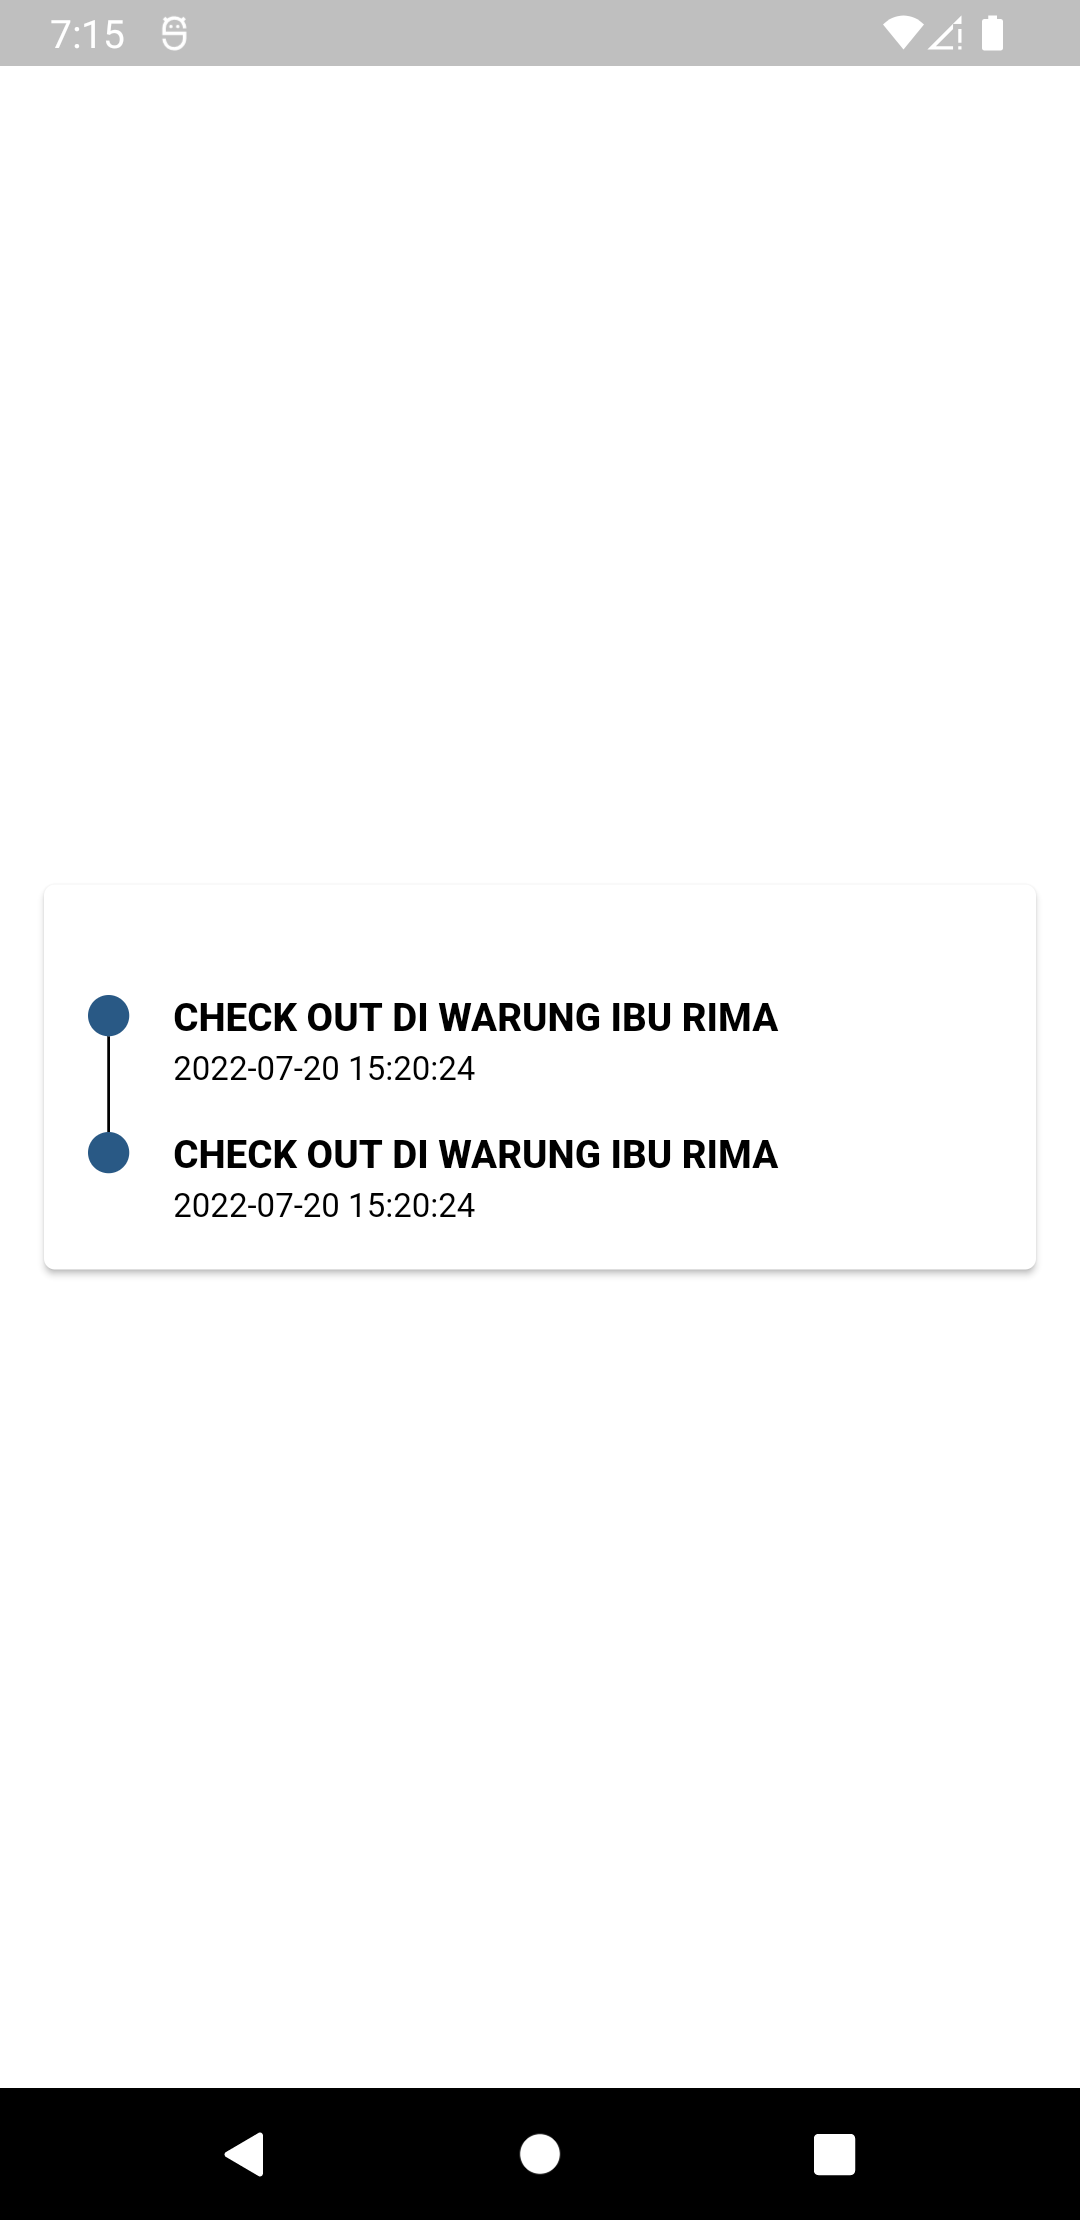
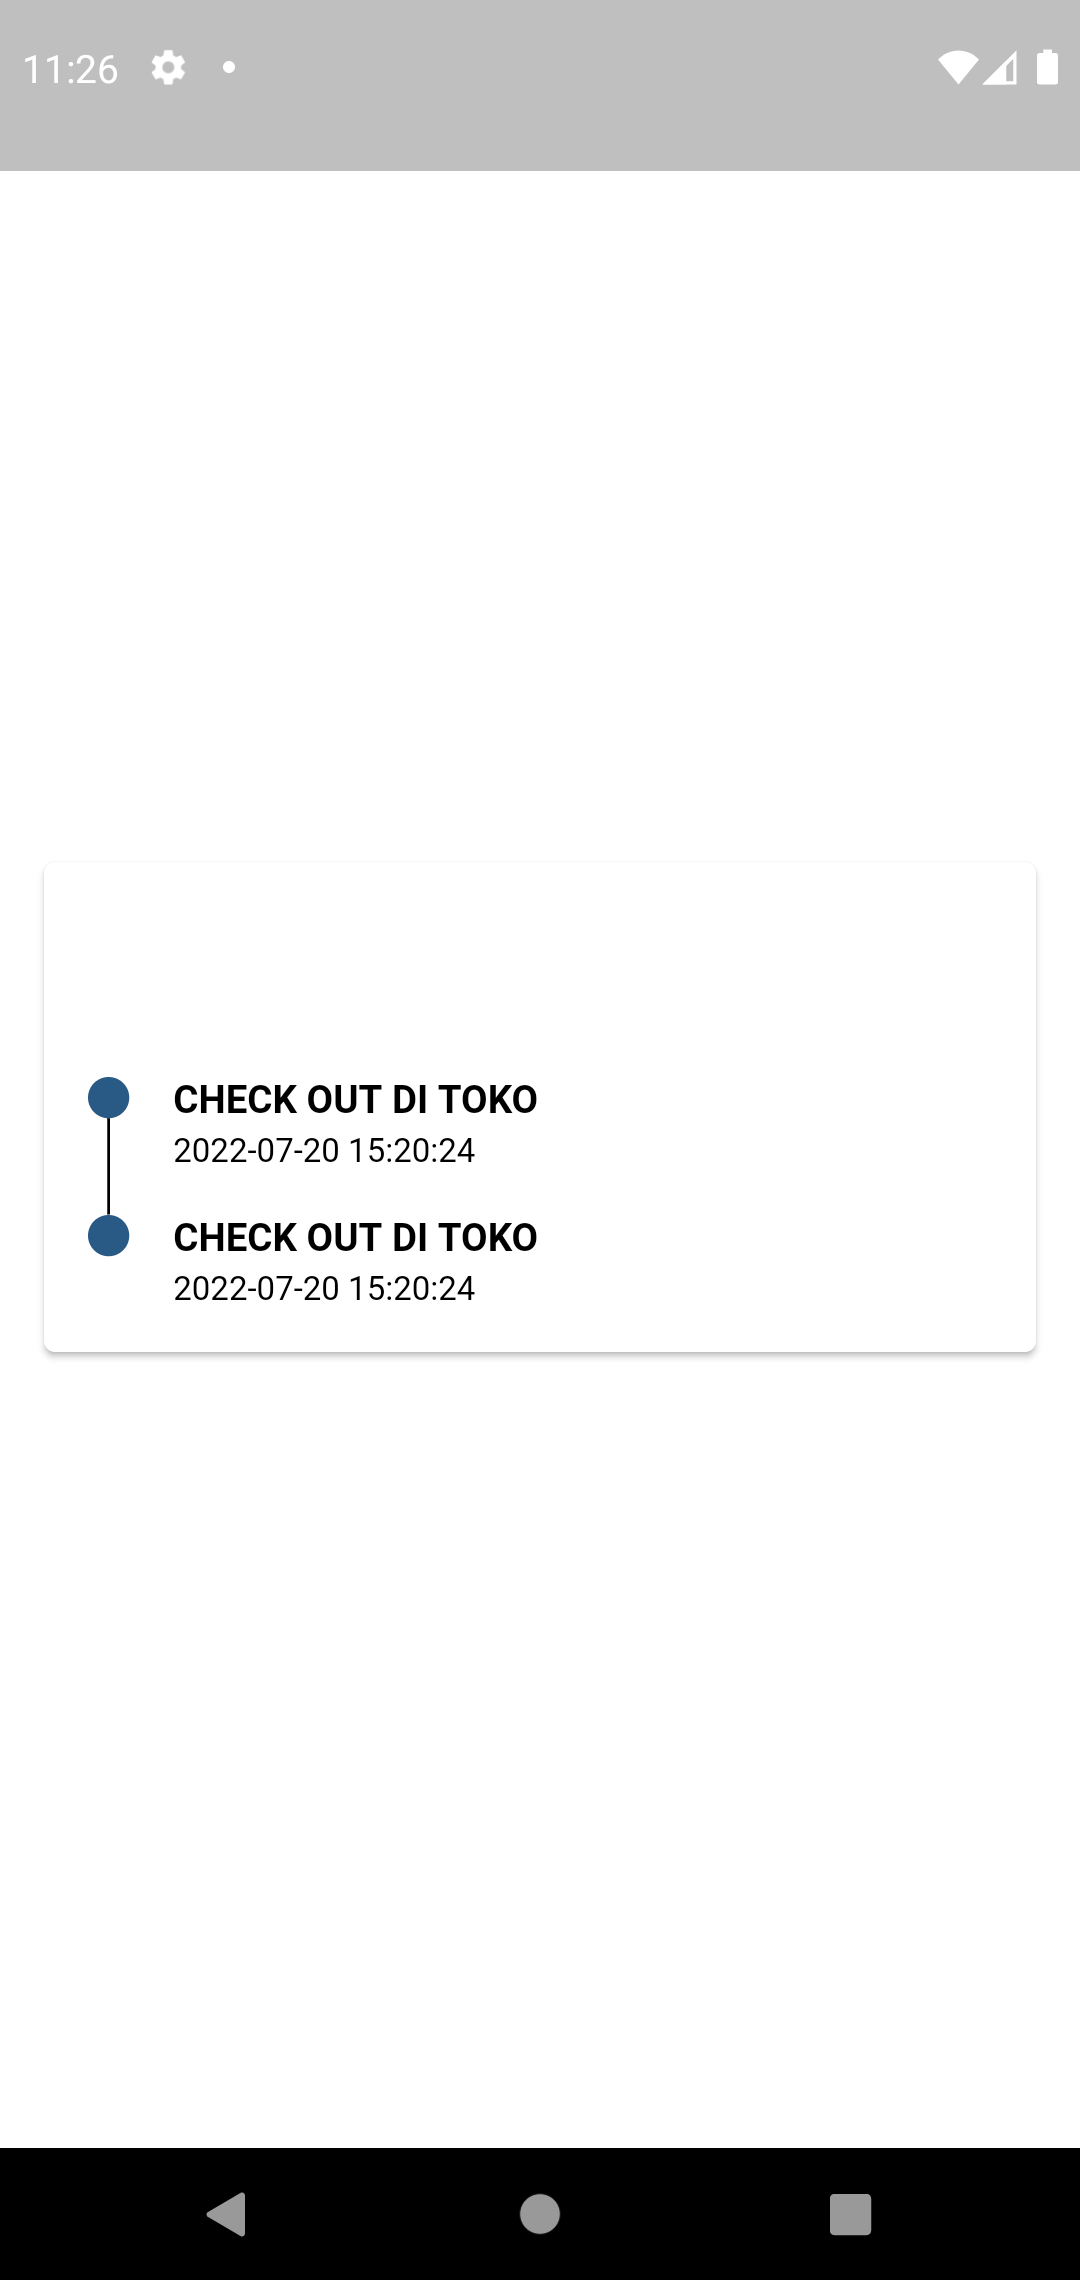
no message

diff --git a/lib/docs/take_image_box/TakeImageBox.dart b/lib/docs/take_image_box/TakeImageBox.dart
@@ -27,7 +27,7 @@ class _TakeImageBoxState extends State<TakeImageBox> {
       width: width * 0.2,
       height: height * 0.25,
       decoration: BoxDecoration(
-        color: Color(0xff121212),
+        color: Colors.grey,
         border: Border.all(
           color: Colors.white24,
           width: 1,
@@ -39,34 +39,21 @@ class _TakeImageBoxState extends State<TakeImageBox> {
           onTap: () {
             getImage();
           },
-          child: Column(
-            mainAxisAlignment: MainAxisAlignment.center,
-            children: [
-              Expanded(
-                child: _pickedPhoto == null
-                    ? Icon(
-                        Icons.camera_alt_sharp,
-                        color: Colors.green,
-                        size: width * 0.1,
-                      )
-                    : Container(
-                        width: double.infinity,
-                        decoration: BoxDecoration(
-                          image: DecorationImage(
-                            image: FileImage(File(_pickedPhoto!.path)),
-                            fit: BoxFit.fill,
-                          ),
-                        ),
-                      ),
-              ),
-              Container(
-                margin: EdgeInsets.only(bottom: 12, top: 4),
-                child: Text(
-                  'Desc Image',
+          child: _pickedPhoto == null
+              ? Icon(
+                  Icons.camera_alt_sharp,
+                  color: Colors.white,
+                  size: width * 0.1,
+                )
+              : Container(
+                  width: double.infinity,
+                  decoration: BoxDecoration(
+                    image: DecorationImage(
+                      image: FileImage(File(_pickedPhoto!.path)),
+                      fit: BoxFit.fill,
+                    ),
+                  ),
                 ),
-              ),
-            ],
-          ),
         ),
       ),
     );

diff --git a/lib/test_screen.dart b/lib/test_screen.dart
@@ -31,10 +31,12 @@ import 'package:my_documentation/docs/loading/Skeleton.dart';
 import 'package:my_documentation/docs/menu/CustomMenu.dart';
 import 'package:my_documentation/docs/modal_bottom_sheet/showCustomModal.dart';
 import 'package:my_documentation/docs/profile/ProfilePage.dart';
+import 'package:my_documentation/docs/rating_review/AddReviewBox.dart';
 import 'package:my_documentation/docs/rating_review/RatingBox.dart';
 import 'package:my_documentation/docs/rating_review/ReviewCardCommon.dart';
 import 'package:my_documentation/docs/rating_review/ReviewRatingCard.dart';
 import 'package:my_documentation/docs/snackbar/SnackBarCommon.dart';
+import 'package:my_documentation/docs/take_image_box/TakeImageBox.dart';
 import 'package:my_documentation/docs/text/ExpandableText.dart';
 import 'package:my_documentation/docs/text_field/TextFieldArea.dart';
 import 'package:my_documentation/docs/text_field/TextFieldCommon.dart';
@@ -59,12 +61,7 @@ class TestScreen extends StatelessWidget {
         mainAxisAlignment: MainAxisAlignment.center,
         children: [
           Center(
-            child: CustomTextArea(
-              label: 'ASD',
-              controller: TextEditingController(),
-              hintText: 'ASD',
-              onChangeListener: () {},
-            ),
+            child: CustomTimelines(),
           )
         ],
       ),

diff --git a/lib/docs/rating_review/AddReviewBox.dart b/lib/docs/rating_review/AddReviewBox.dart
@@ -1,13 +1,13 @@
 import 'package:flutter/material.dart';
 
-class TakeImageBox extends StatefulWidget {
-  const TakeImageBox({Key? key}) : super(key: key);
+class AddReviewBox extends StatefulWidget {
+  const AddReviewBox({Key? key}) : super(key: key);
 
   @override
-  State<TakeImageBox> createState() => _TakeImageBoxState();
+  State<AddReviewBox> createState() => _AddReviewBoxState();
 }
 
-class _TakeImageBoxState extends State<TakeImageBox> {
+class _AddReviewBoxState extends State<AddReviewBox> {
   @override
   Widget build(BuildContext context) {
     return Column(

diff --git a/lib/docs/timelines/CustomTimeLines.dart b/lib/docs/timelines/CustomTimeLines.dart
@@ -61,7 +61,7 @@ class _CustomTimelinesState extends State<CustomTimelines> {
                       Container(
                         margin: EdgeInsets.fromLTRB(0, 0, 0, 4),
                         child: Text(
-                          'CHECK OUT DI WARUNG IBU RIMA',
+                          'CHECK OUT DI TOKO',
                           style: TextStyle(
                             fontSize: 14,
                             fontWeight: FontWeight.w800,

diff --git a/README.md b/README.md
@@ -23,8 +23,7 @@ Logic / Function
 6. [image_picker_handler](lib/docs/LOGIC/image_picker_handler.dart)
 7. [Debounce](lib/docs/LOGIC/Debounce.dart)
 8. [InsertMapByIndex](lib/docs/LOGIC/InsertMapByIndex.dart)
-8. [TimestampConverter](lib/docs/LOGIC/TimestampConverter.dart)
-
+9. [TimestampConverter](lib/docs/LOGIC/TimestampConverter.dart)
 
 ## Screenshots:
 
@@ -160,8 +159,14 @@ Logic / Function
             <p><a href="lib/docs/rating_review/ReviewRatingCard.dart" target="_blank">ReviewRatingCard</a></p>
         </div>
     </td>
+     <td>
+        <div style="text-align: center;">
+            <img src="docs_image/AddReviewBox.png" height="350px"/>
+            <p><a href="lib/docs/rating_review/AddReviewBox.dart" target="_blank">AddReviewBox</a></p>
+        </div>
+    </td>
   </tr>
-    <!--   Button -->
+    <!-- Button -->
    <tr>
         <td>
         <div style="text-align: center;">
@@ -361,13 +366,12 @@ Logic / Function
             <p><a href="lib/docs/alert_dialog/AlertDialogCommon.dart" target="_blank">AlertDialogCommon</a></p>
         </div>
     </td>
-  </tr> 
-  <tr>
         <td>
         <div style="text-align: center;">
             <img src="docs_image/AlertDialogCommon2.png" height="350px"/>
             <p><a href="lib/docs/alert_dialog/AlertDialogCommon2.dart" target="_blank">AlertDialogCommon2</a></p>
         </div>
     </td>
+
   </tr> 
 </table>
